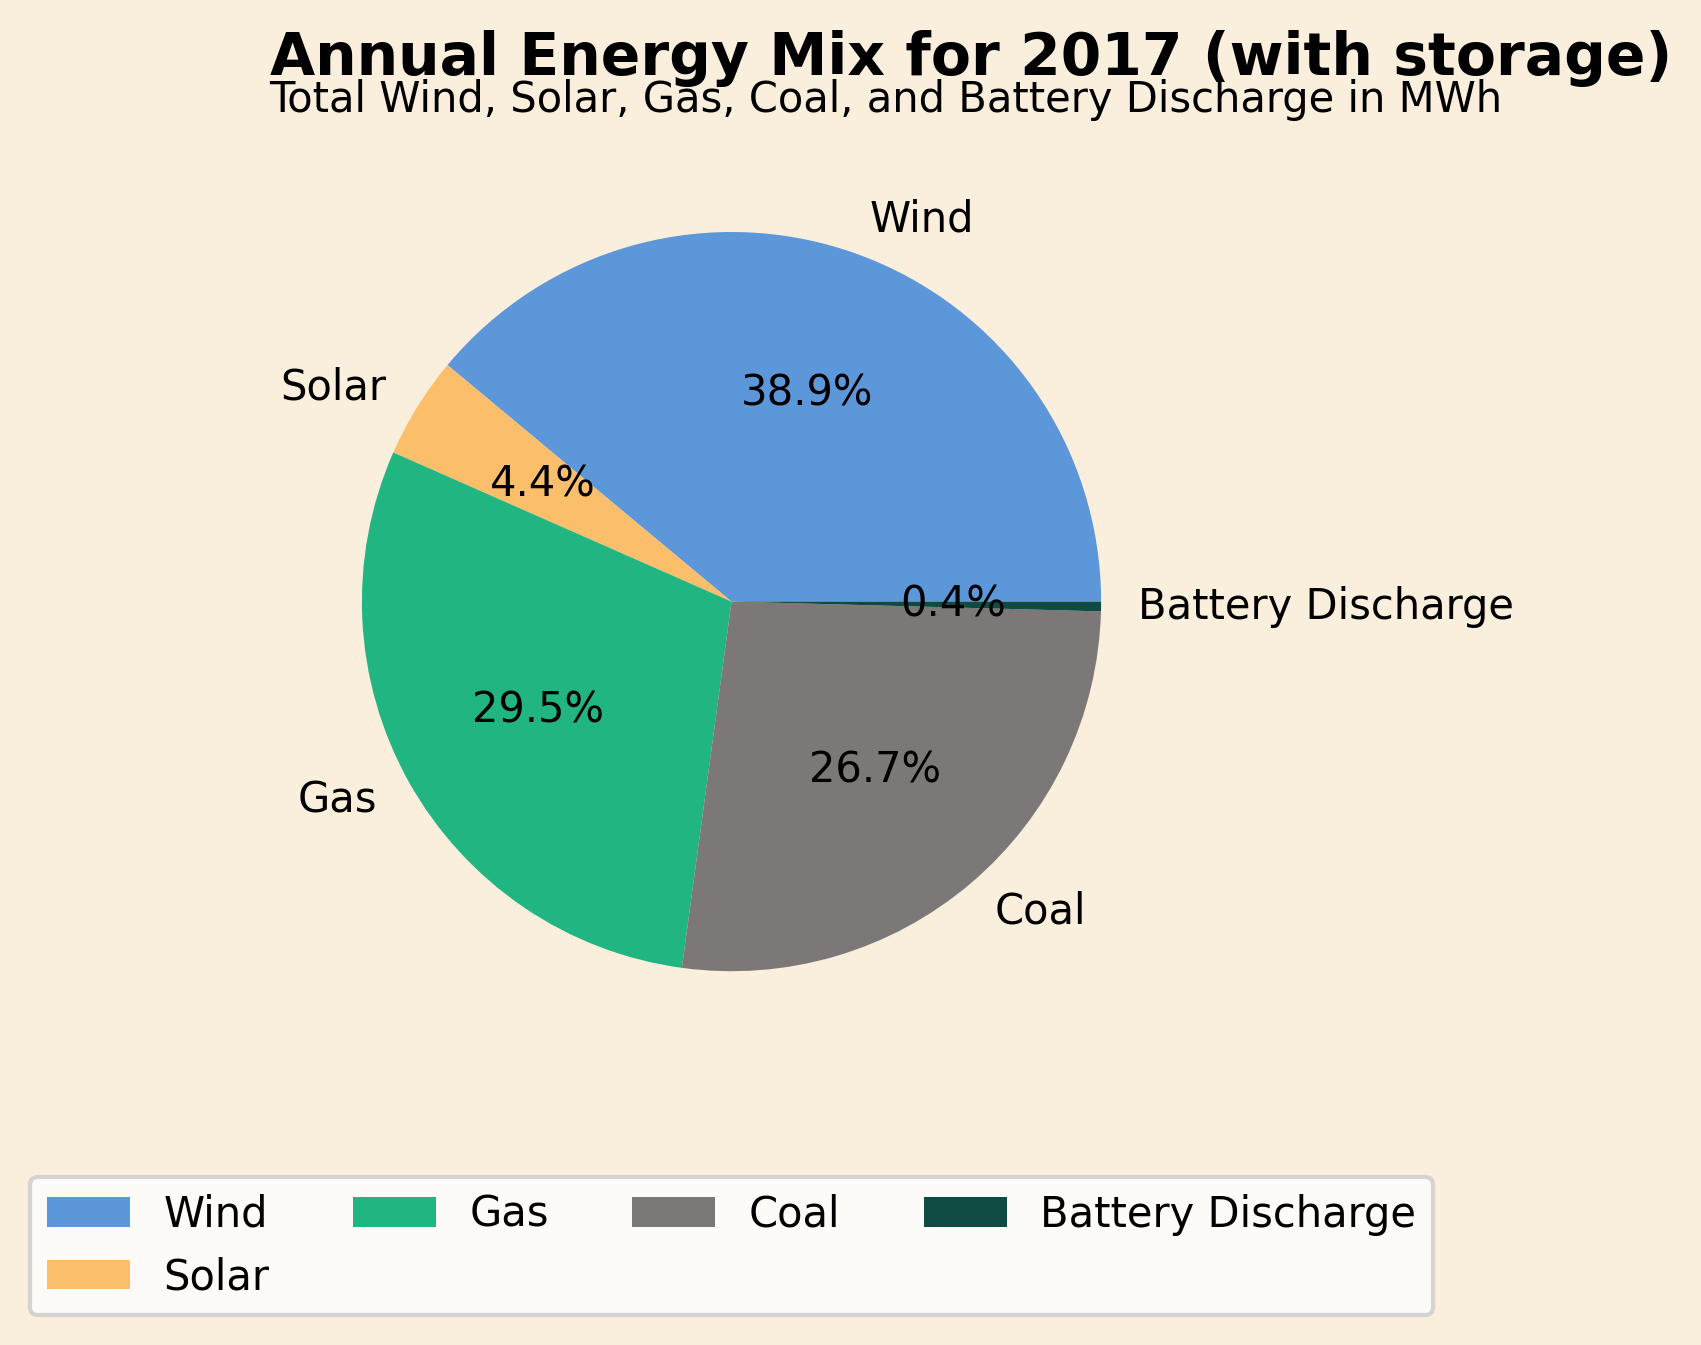
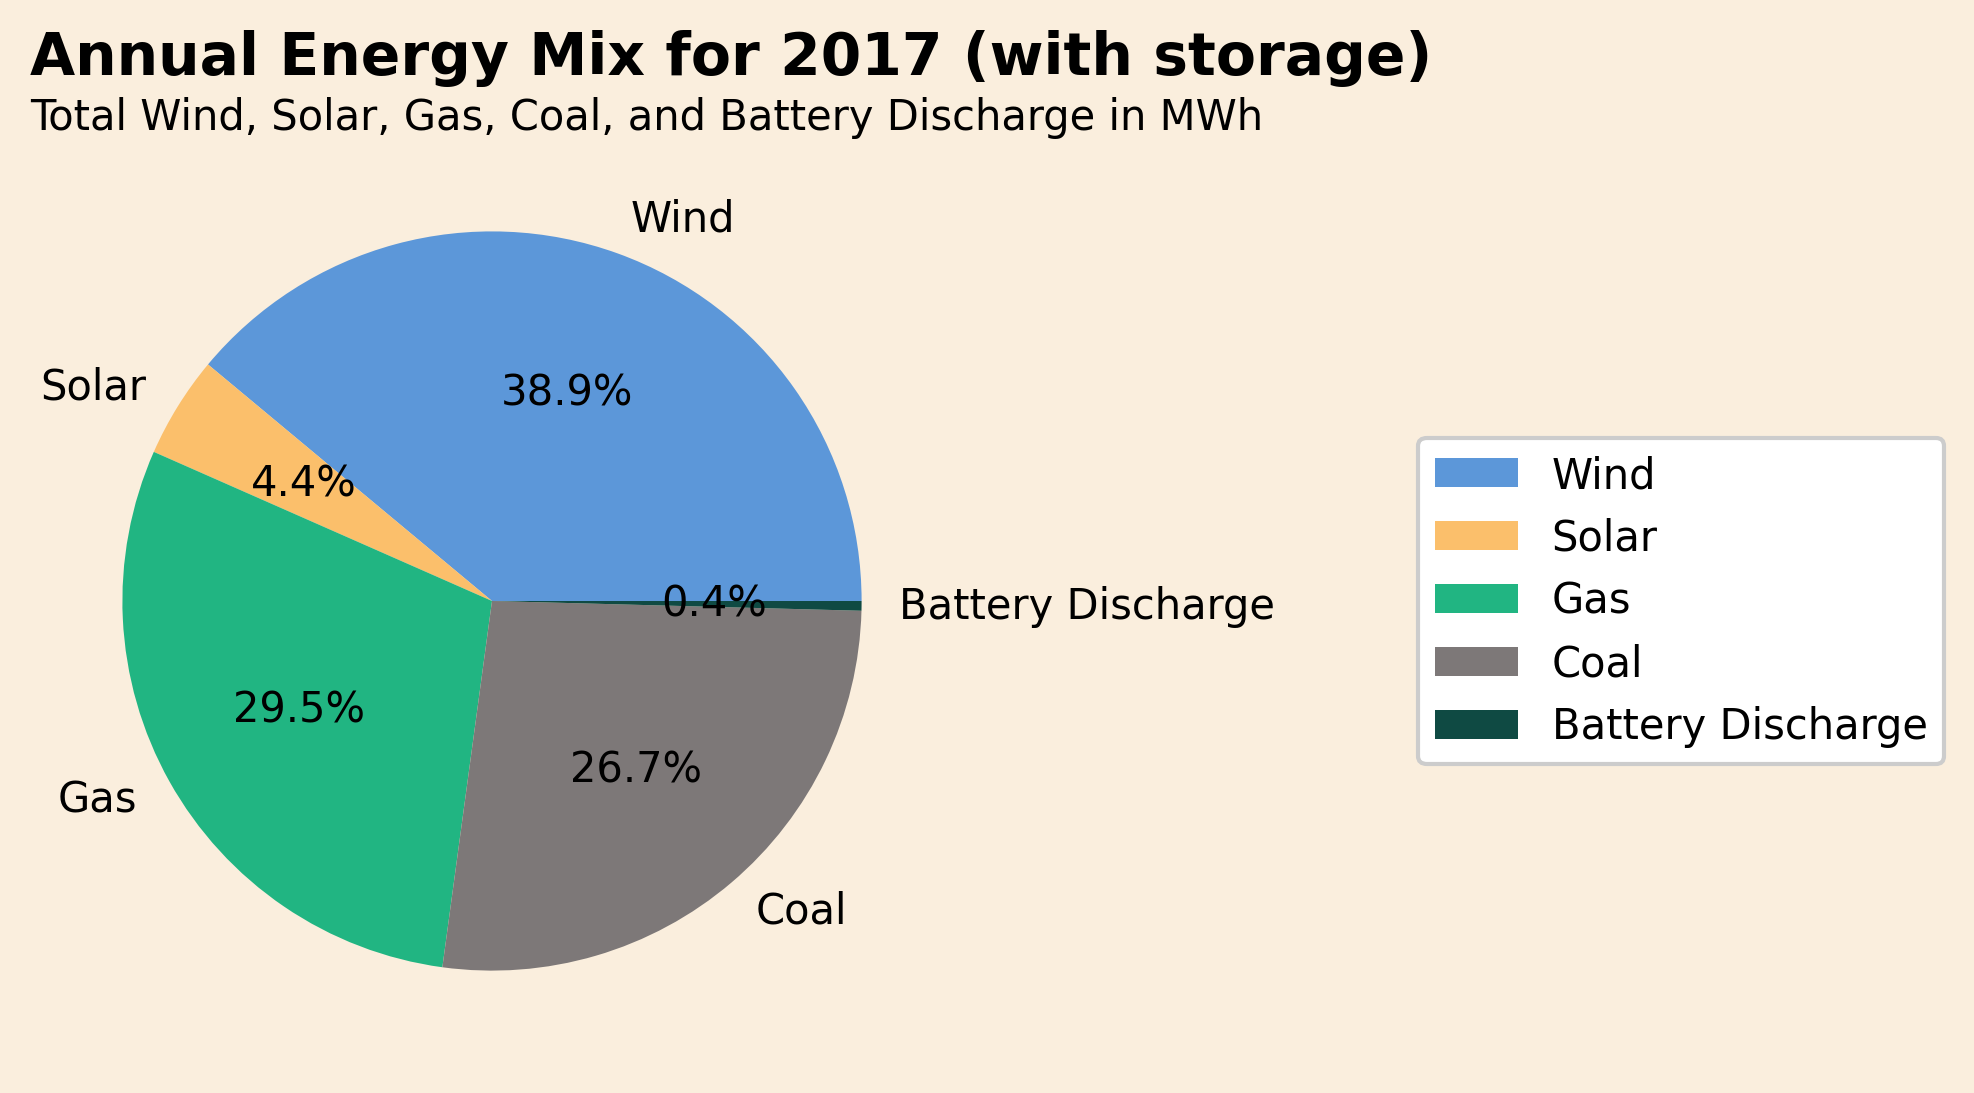
updatedplots: legend and subtitle

diff --git a/plotter.py b/plotter.py
@@ -67,7 +67,7 @@ def plot_dispatch(time_index, df, load, title, show=False, save=True, power_axis
     if "Battery Storage Discharge" in df.columns:
         subtitle = "Wind, Solar, Gas, Coal, and Battery Dynamics in MWh"
 
-    ax1.text(0.0, 1.03, subtitle,
+    ax1.text(0.0, 1.01, subtitle,
             transform=ax1.transAxes, fontsize=10, color="black", ha="left")
 
     ax1.spines["top"].set_visible(False)
@@ -118,10 +118,10 @@ def plot_dispatch(time_index, df, load, title, show=False, save=True, power_axis
         ax1.set_ylim(0, power_axis_max)
     ax1.set_xlabel('Time')
     ax1.text(0.0, 1.07, title, transform=ax1.transAxes, fontsize=14, color='black', ha='left', fontweight='bold')
-    ax1.text(0.0, 1.03, subtitle, transform=ax1.transAxes, fontsize=10, color='black', ha='left')
+    ax1.text(0.0, 1.01, subtitle, transform=ax1.transAxes, fontsize=10, color='black', ha='left')
     lines_1, labels_1 = ax1.get_legend_handles_labels()
     lines_2, labels_2 = ax2.get_legend_handles_labels()
-    ax1.legend(lines_1 + lines_2, labels_1 + labels_2, bbox_to_anchor=(0.5, -0.10), ncol=4, loc='upper center')
+    ax1.legend(lines_1 + lines_2, labels_1 + labels_2, bbox_to_anchor=(0.5, -0.16), ncol=4, loc='upper center')
     ax1.spines['top'].set_visible(False)
     ax1.spines['right'].set_visible(False)
 
@@ -159,7 +159,7 @@ def plot_annual_energy_mix(df, title, show=False, save=True):
     labels = [label for _, label, _ in components]
     pie_colors = [color for _, _, color in components]
     
-    fig, ax = plt.subplots(figsize=(12, 4))
+    fig, ax = plt.subplots(figsize=(14, 4))
     fig.patch.set_facecolor(background_color)
     ax.set_facecolor(background_color)
     ax.pie(values, labels=labels, colors=pie_colors, autopct='%1.1f%%')
@@ -168,8 +168,16 @@ def plot_annual_energy_mix(df, title, show=False, save=True):
     if "Battery Storage Discharge" in df.columns:
         annual_subtitle = 'Total Wind, Solar, Gas, Coal, and Battery Discharge in MWh'
 
-    ax.text(0.0, 1.03, annual_subtitle, transform=ax.transAxes, fontsize=10, color='black', ha='left')
-    ax.legend(bbox_to_anchor=(0.5, -0.10), ncol=4, loc='upper center')
+    ax.text(0.0, 1.01, annual_subtitle, transform=ax.transAxes, fontsize=10, color='black', ha='left')
+    ax.legend(
+        labels,
+        bbox_to_anchor=(1.48, 0.5),
+        loc='center left',
+        frameon=True,
+        facecolor='white',
+        framealpha=1,
+    )
+    fig.subplots_adjust(right=0.58)
     ax.spines['top'].set_visible(False)
     ax.spines['right'].set_visible(False)
     
@@ -203,7 +211,7 @@ def plot_duration_curve(df, title, show=False, save=True):
         sorted_values = df[col].sort_values(ascending=False).reset_index(drop=True)
         ax.plot(hours, sorted_values, label=label, color=color)
 
-    ax.set_xlabel("Hours (sorted)")
+    ax.set_xlabel("Hours (sorted)", labelpad=5)
     ax.set_ylabel("Generation [MWh]")
 
     ax.text(0.0, 1.07,
@@ -213,13 +221,19 @@ def plot_duration_curve(df, title, show=False, save=True):
         fontweight="bold"
     )
 
-    ax.text(0.0, 1.03,
+    ax.text(0.0, 1.01,
         "Sorted hourly generation for each technology",
         transform=ax.transAxes,
         fontsize=10
     )
 
-    ax.legend(bbox_to_anchor=(0.5, -0.10), ncol=4, loc="upper center")
+    # Keep the legend below the x-axis label and use one row when possible.
+    ax.legend(
+        bbox_to_anchor=(0.5, -0.16),
+        ncol=len(series),
+        loc="upper center",
+    )
+    fig.subplots_adjust(bottom=0.25)
 
     ax.spines['top'].set_visible(False)
     ax.spines['right'].set_visible(False)
@@ -260,7 +274,7 @@ def plot_capacity_variability(capacity_df, title, show=False, save=True):
         fontweight="bold"
     )
 
-    ax.text(0.0, 1.03,
+    ax.text(0.0, 1.01,
         "Error bars show standard deviation across weather years",
         transform=ax.transAxes,
         fontsize=10
@@ -310,11 +324,11 @@ def plot_storage_operation(time_index, storage_df, title, show=False, save=True)
     ax2.set_ylabel("State of Charge [MWh]")
 
     ax1.text(0.0, 1.07, title, transform=ax1.transAxes, fontsize=14, color="black", ha="left", fontweight="bold")
-    ax1.text(0.0, 1.03, "Battery charging, discharging, and state of charge", transform=ax1.transAxes, fontsize=10, color="black", ha="left")
+    ax1.text(0.0, 1.01, "Battery charging, discharging, and state of charge", transform=ax1.transAxes, fontsize=10, color="black", ha="left")
 
     lines_1, labels_1 = ax1.get_legend_handles_labels()
     lines_2, labels_2 = ax2.get_legend_handles_labels()
-    ax1.legend(lines_1 + lines_2, labels_1 + labels_2, bbox_to_anchor=(0.5, -0.10), ncol=3, loc="upper center")
+    ax1.legend(lines_1 + lines_2, labels_1 + labels_2, bbox_to_anchor=(0.5, -0.16), ncol=3, loc="upper center")
 
     ax1.spines["top"].set_visible(False)
     ax2.spines["top"].set_visible(False)
